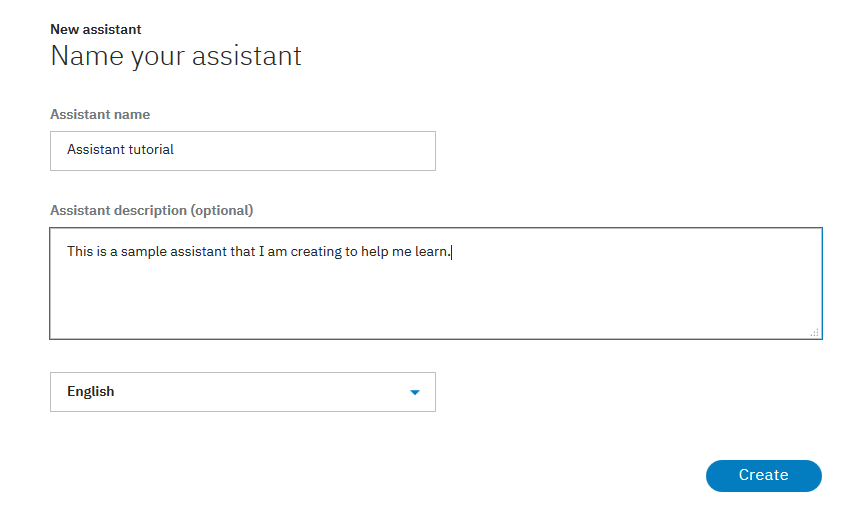
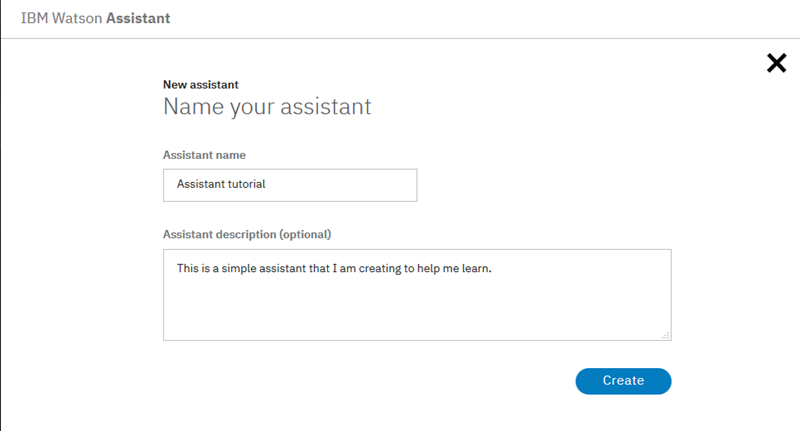
Small fixes

diff --git a/dialog-runtime.md b/dialog-runtime.md
@@ -2,7 +2,7 @@
 
 copyright:
   years: 2015, 2018
-lastupdated: "2018-03-23"
+lastupdated: "2018-04-10"
 
 ---
 
@@ -223,7 +223,11 @@ To define a context variable, complete the following steps:
 ## Common context variable tasks
 {: #context-common-tasks}
 
-To store the entire string that was provided by the user as input, use `input.text`:
+- If you need to set a default value for a context variable that you want to use or edit later in the dialog flow, then define the context variable in a dialog node that is always triggered.
+
+  **Note**: The Welcome node is not always triggered in deployed instances of the assistant. You can add a node that conditions on `conversation_start` and use it to set default values. See [Dialog initialization](add-integrations.html#dialog-start) for things to consider if you use this approach.
+
+- To store the entire string that was provided by the user as input, use `input.text`:
 
 | Variable | Value            |
 |----------|------------------|
@@ -238,7 +242,7 @@ To store the entire string that was provided by the user as input, use `input.te
 ```
 {: codeblock}
 
-To store the value of an entity in a context variable, use this syntax:
+- To store the value of an entity in a context variable, use this syntax:
 
 | Variable | Value            |
 |----------|------------------|
@@ -253,7 +257,7 @@ To store the value of an entity in a context variable, use this syntax:
 ```
 {: codeblock}
 
-You can add a JSON object to a context variable using either editor. The following expression defines a full_name object that contains a set of first and last values, which together form a person's full name.
+- You can add a JSON object to a context variable using either editor. The following expression defines a full_name object that contains a set of first and last values, which together form a person's full name.
 
 | Variable      | Value            |
 |---------------|------------------|
@@ -273,7 +277,7 @@ You can add a JSON object to a context variable using either editor. The followi
 
 If you specify `$full_name.first` in the response, `Paul` is displayed.
 
-To store the value of a string that you extract from the user's input, you can include a SpEL expression that uses the extract method to apply a regular expression to the user input. The following expression extracts a number from the user input, and saves it to the `$number` context variable.
+- To store the value of a string that you extract from the user's input, you can include a SpEL expression that uses the extract method to apply a regular expression to the user input. The following expression extracts a number from the user input, and saves it to the `$number` context variable.
 
 | Variable | Value                               |
 |----------|-------------------------------------|
@@ -291,7 +295,7 @@ To store the value of a string that you extract from the user's input, you can i
 When you define a regular expression in the JSON editor, you must escape any back slashes that you use in the expression with another back slash (`\\`). You do not need to escape back slashes in regular expressions that you define using the context variable editor.
 {: tip}
 
-To store the value of a pattern entity, append .literal to the entity name. Using this syntax ensures that the exact span of text from user input that matched the specified pattern is stored in the variable.
+- To store the value of a pattern entity, append .literal to the entity name. Using this syntax ensures that the exact span of text from user input that matched the specified pattern is stored in the variable.
 
 | Variable | Value            |
 |----------|------------------|

diff --git a/dialog-build.md b/dialog-build.md
@@ -2,7 +2,7 @@
 
 copyright:
   years: 2015, 2018
-lastupdated: "2018-04-06"
+lastupdated: "2018-04-10"
 
 ---
 
@@ -46,11 +46,14 @@ To create a dialog, complete the following steps:
 1.  Open the **Build** page from the navigation bar, click the **Dialog** tab, and then click **Create**.
 
     When you open the dialog builder for the first time, the following nodes are created for you:
+
     - **Welcome**: The first node. It contains a greeting that is displayed to your users when they first engage with the service. You can edit the greeting.
 
-      **Note**: This node is not triggered in dialog flows that are initiated by users. For example, dialogs used in integrations with channels such as Facebook or Slack never trigger the welcome special condition.
+    **Note**: This node is not triggered in dialog flows that are initiated by users. For example, dialogs used in integrations with channels such as Facebook or Slack skip nodes with the `welcome` special condition. See [Dialog initialization](add-integrations.html#dialog-start) for more information.
+
     - **Anything else**: The final node. It contains phrases that are used to reply to users when their input is not recognized. You can replace the responses that are provided or add more responses with a similar meaning to add variety to the conversation. You can also choose whether you want the service to return each response that is defined in turn or return them in random order.
 1.  To add more nodes to the dialog tree, click the **More** ![More icon](images/kabob.png) icon on the **Welcome** node, and then select **Add node below**.
+
 1.  Enter a condition that, when met, triggers the service to process the node.
 
     As you begin to define a condition, a box is displayed that shows you your options. You can enter one of the following characters, and then pick a value from the list of options that is displayed.

diff --git a/add-integrations.md b/add-integrations.md
@@ -2,7 +2,7 @@
 
 copyright:
   years: 2015, 2018
-lastupdated: "2018-04-06"
+lastupdated: "2018-04-10"
 
 ---
 
@@ -59,3 +59,11 @@ Follow these steps to add integrations to your assistant:
 1.  Follow the instructions that are provided on the screen to complete the integration process.
 
 After you integrate the assistant, test it from the target channel to ensure that the assistant works as expected.
+
+### Dialog initialization
+{: #dialog-start}
+
+The Welcome node of your dialog is never triggered. It is displayed in the 'Try it out' pane when you test the assistant within the tool. However, it is not triggered from channel integrations because nodes with the `welcome` special condition are skipped in dialog flows that are started by users. Deployed assistants typically wait for users to initiate conversations with them, not the other way around.
+
+If you need to set default values for context variables that are used later in your dialog, add a dialog node above the Welcome node. Set the `conversation_start` special condition as the node condition. You can then define your context variables, but do not define a text response for the node. If you do, the assistant will ignore the user's first input and return the text response no matter what the user says. Instead, configure the node to jump to the welcome node condition. When you do so, the welcome node's text response is displayed in deployments where the assistant starts the dialog flow. In deployments where the user starts the dialog flow, the user's first input is evaluated and then processed by the node that can provide the best response.
+{: tip}

diff --git a/getting-started.md b/getting-started.md
@@ -2,7 +2,7 @@
 
 copyright:
   years: 2015, 2018
-lastupdated: "2018-03-23"
+lastupdated: "2018-04-10"
 
 ---
 
@@ -47,7 +47,6 @@ An [*assistant*](assistants.html) is a cognitive bot to which you add skills tha
     ![Create new button on the Assistant tab](images/gs-create-assistant.png)
 1.  Name the assistant `Watson Assistant tutorial`.
 1.  In the Description field, enter `This is a sample assistant that I am creating to help me learn.`
-1.  **Optional**. If you want to create an assistant that communicates in a language other than English, then choose the appropriate language from the list.
 1.  Click **Create**.
 
     ![Finish creating the new assistant](images/gs-create-assistant-done.png)
@@ -77,7 +76,7 @@ An [intent](intents.html) represents the purpose of a user's input. You can thin
 
 For this example, we're going to keep things simple and define only two intents: one for saying hello, and one for saying goodbye.
 
-1.  From the Skills page, find the tile for the `Conversational skill tutorial` that you just created, and click **Edit**.
+1.  From the Skills page, find the tile for the `Conversational skill tutorial` that you just created, and click to open it.
 
     You'll land on the Intents page of the tool.
 

diff --git a/dialog-slots.md b/dialog-slots.md
@@ -2,7 +2,7 @@
 
 copyright:
   years: 2015, 2018
-lastupdated: "2018-03-15"
+lastupdated: "2018-04-10"
 
 ---
 
@@ -23,7 +23,7 @@ lastupdated: "2018-03-15"
 
 Add slots to a dialog node to gather multiple pieces of information from a user within that node. Slots collect information at the users' pace. Details the user provides upfront are saved, and the service asks only for the details they do not.
 
-<iframe class="embed-responsive-item" id="youtubeplayer" type="text/html" width="640" height="390" src="https://www.youtube.com/embed/ES4GHcDsSCI?rel=0" frameborder="0" webkitallowfullscreen mozallowfullscreen allowfullscreen> </iframe>
+<iframe class="embed-responsive-item" id="youtubeplayer" type="text/html" width="640" height="390" src="https://www.youtube.com/embed/kMLyKfmO9wI?rel=0" frameborder="0" webkitallowfullscreen mozallowfullscreen allowfullscreen> </iframe>
 
 ## Why add slots?
 {: #why-add-slots}

diff --git a/release-notes.md b/release-notes.md
@@ -26,4 +26,4 @@ The following new features and changes to the service are available.
 ### 11 April 2018
 {: #19March2018}
 
-- A group of select customers were given access to a private beta build of {{site.data.keyword.conversationfull}} for evaluation. The Beta introduces customers to a new approach to building assistants, one that manages the orchestration of information from one dialog call to the next, and that simplifies the process of publishing the assistant so it can start helping customers faster.
+- A group of select customers were given access to a private beta build of {{site.data.keyword.conversationfull}} for evaluation. The Beta introduces customers to a new way of building assistants, one that manages the orchestration of information from one dialog call to the next, and that simplifies the deployment process so the assistant can start helping customers faster.

diff --git a/deploy-web-link.md b/deploy-web-link.md
@@ -2,7 +2,7 @@
 
 copyright:
   years: 2015, 2018
-lastupdated: "2018-04-09"
+lastupdated: "2018-04-10"
 
 ---
 
@@ -29,7 +29,7 @@ To test the assistant from the web-hosted chat widget, complete the following st
 
 1.  From the Assistants tab, click to open the assistant tile that you want to test.
 
-1.  From the Integrations section, click **Edit** on the *Shareable Link* tile.
+1.  From the Integrations section, click the *Shareable Link* tile.
 
 1.  **Optional**: Click the **Edit Integration name** ![Edit Integration](images/edit-integration.png) icon to change the integration name, and the **Edit Integration description** ![Edit Integration](images/edit-integration.png) icon to change the description.
 
